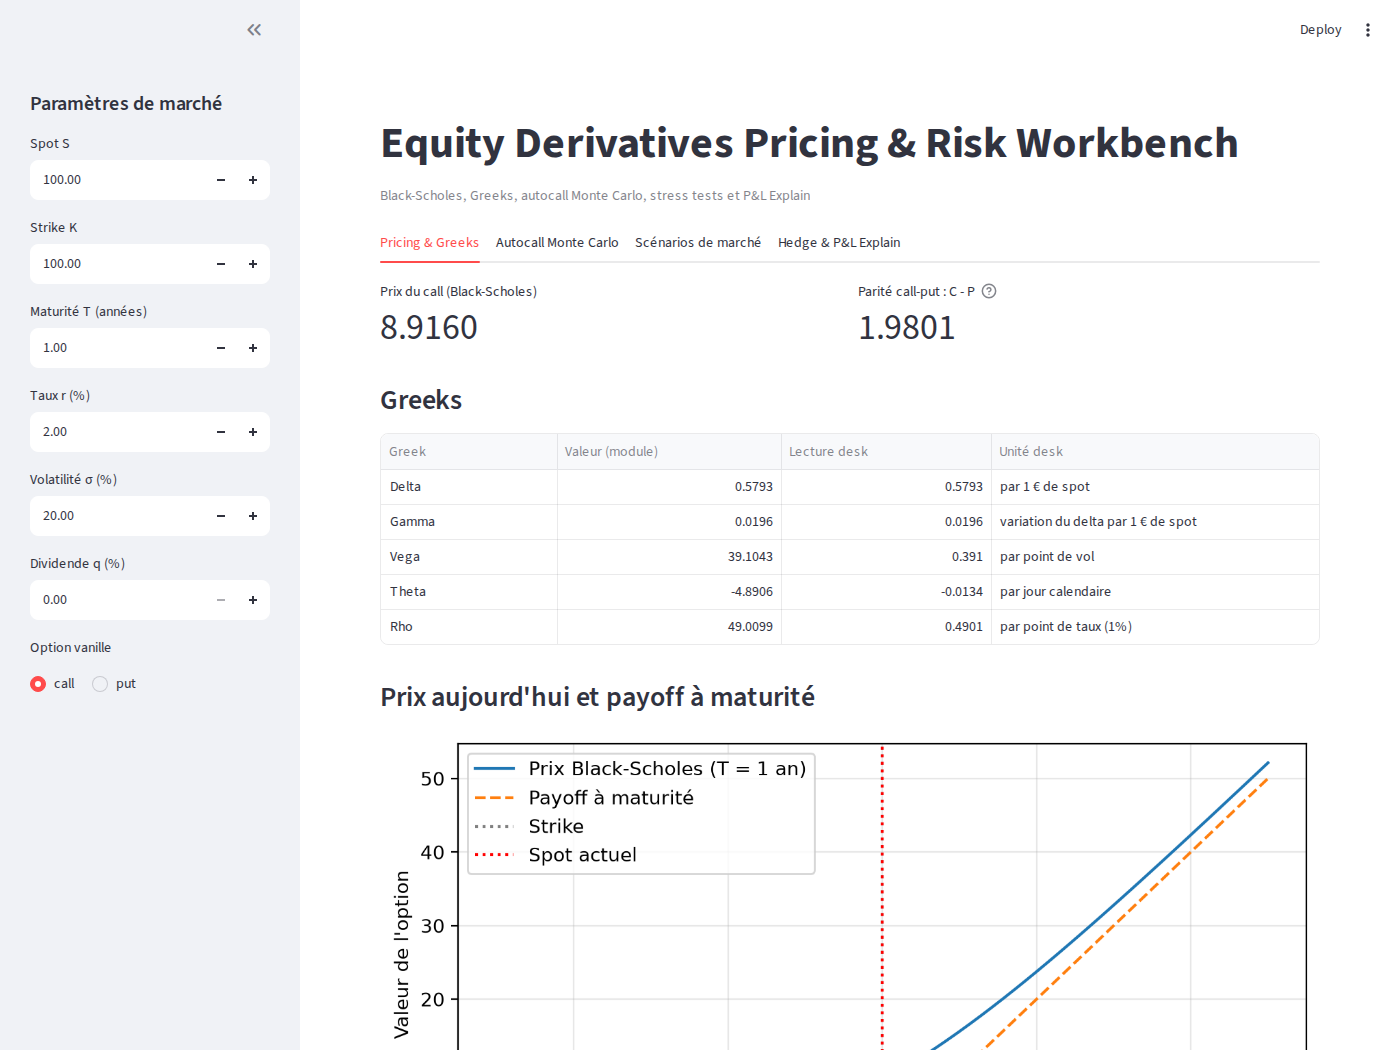
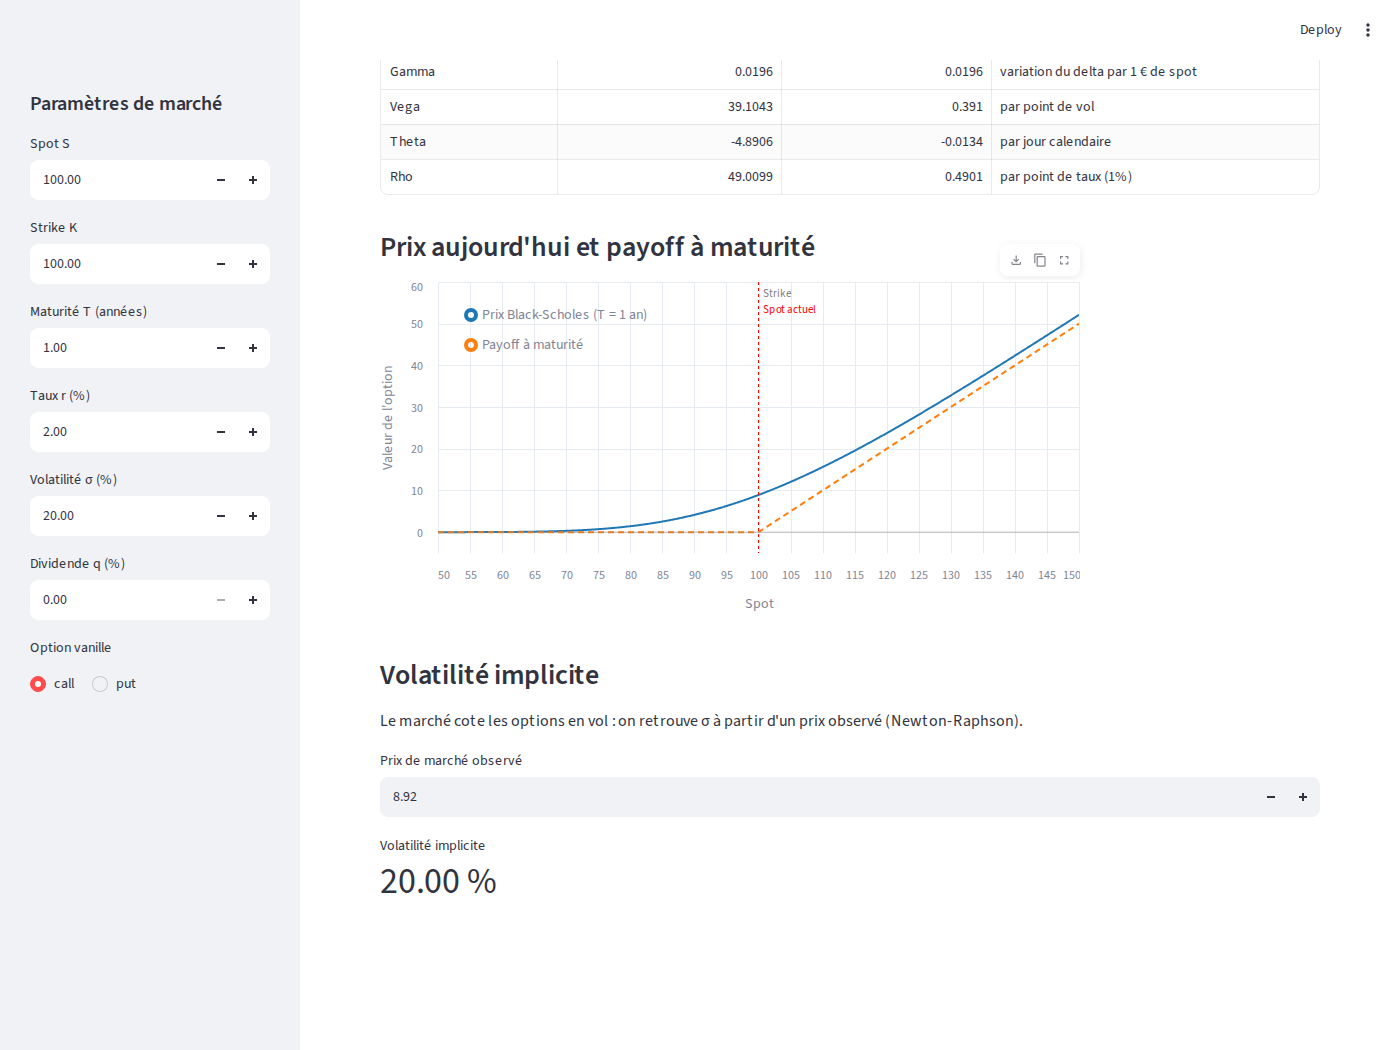
graphique payoff en altair + marge sous zero
- le graphique prix / payoff est dessine par le navigateur (altair) au lieu
  d'une image matplotlib : plus de redimensionnement quand on change les valeurs
- taille fixe 700 x 350, marge sous 0 et ligne y = 0 pour voir les courbes a zero
- legende complete, etiquettes strike / spot qui ne se chevauchent plus
- altair dans requirements.txt, capture du README mise a jour
- test_app verifie que le graphique payoff est un graphique altair

diff --git a/app.py b/app.py
@@ -5,6 +5,7 @@
 import io
 import numpy as np
 import matplotlib.pyplot as plt
+import altair as alt
 import streamlit as st
 
 from pricing.black_scholes import prix_call, prix_put
@@ -108,24 +109,51 @@ with onglet_pricing:
     else:
         payoff = np.maximum(K - spots, 0)
 
-    fig, ax = plt.subplots(figsize=(7, 3.5))
-    ax.plot(spots, prix_spots, label=f"Prix Black-Scholes (T = {T:g} an)")
-    ax.plot(spots, payoff, "--", label="Payoff à maturité")
-    ax.axvline(K, color="grey", linestyle=":", label="Strike")
+    # Ce graphique est dessiné par le navigateur (Altair, installé avec Streamlit) et pas
+    # par matplotlib : ce n'est plus une image, donc rien à redimensionner quand on change
+    # les valeurs, et on peut lire les points au survol de la souris.
+    nom_prix = f"Prix Black-Scholes (T = {T:g} an)"
+    points = []
+    for s, p, v in zip(spots, prix_spots, payoff):
+        points.append({"Spot": float(s), "Valeur": float(p), "Courbe": nom_prix})
+        points.append({"Spot": float(s), "Valeur": float(v), "Courbe": "Payoff à maturité"})
+
+    # Axes fixés par rapport au strike, avec une petite marge sous 0
+    # pour bien voir les courbes qui sont à y = 0
+    haut = max(0.6 * K, max(prix_spots) * 1.05)
+    echelle_x = alt.Scale(domain=[0.5 * K, 1.5 * K])
+    echelle_y = alt.Scale(domain=[-0.05 * haut, haut])
+
+    courbes = alt.Chart(alt.Data(values=points)).mark_line(clip=True).encode(
+        x=alt.X("Spot:Q", scale=echelle_x),
+        y=alt.Y("Valeur:Q", scale=echelle_y, title="Valeur de l'option"),
+        color=alt.Color("Courbe:N", title=None,
+                        scale=alt.Scale(domain=[nom_prix, "Payoff à maturité"], range=["#1f77b4", "#ff7f0e"]),
+                        legend=alt.Legend(orient="top-left" if type_option == "call" else "top-right", labelLimit=0)),
+        strokeDash=alt.StrokeDash("Courbe:N", legend=None,
+                                  scale=alt.Scale(domain=[nom_prix, "Payoff à maturité"], range=[[1, 0], [6, 4]])),
+        tooltip=["Courbe:N", alt.Tooltip("Spot:Q", format=".2f"), alt.Tooltip("Valeur:Q", format=".4f")],
+    )
+
+    # Repères verticaux : strike (gris) et spot actuel (rouge) s'il est dans la zone affichée
+    reperes = [{"Spot": K, "Repère": "Strike", "couleur": "grey", "hauteur_texte": 12}]
     if 0.5 * K <= S <= 1.5 * K:
-        ax.axvline(S, color="red", linestyle=":", label="Spot actuel")
+        reperes.append({"Spot": S, "Repère": "Spot actuel", "couleur": "red", "hauteur_texte": 28})
+    base_reperes = alt.Chart(alt.Data(values=reperes)).encode(
+        x=alt.X("Spot:Q", scale=echelle_x),
+        color=alt.Color("couleur:N", scale=None),
+    )
+    lignes_verticales = base_reperes.mark_rule(strokeDash=[3, 3])
+    # hauteur_texte en pixels (scale=None) : les deux étiquettes ne se chevauchent pas si S = K
+    textes = base_reperes.mark_text(align="left", dx=4).encode(
+        text="Repère:N", y=alt.Y("hauteur_texte:Q", scale=None)
+    )
 
-    # Axes fixés par rapport au strike : sinon matplotlib recalcule l'échelle
-    # à chaque changement de paramètre et le graphique "saute"
-    ax.set_xlim(0.5 * K, 1.5 * K)
-    ax.set_ylim(0, max(0.6 * K, max(prix_spots) * 1.05))
+    zero = alt.Chart(alt.Data(values=[{"y": 0}])).mark_rule(color="grey", opacity=0.5).encode(y="y:Q")
 
-    ax.set_xlabel("Spot")
-    ax.set_ylabel("Valeur de l'option")
-    # Légende du côté où la courbe est basse (à gauche pour un call, à droite pour un put)
-    ax.legend(loc="upper left" if type_option == "call" else "upper right", fontsize="small")
-    ax.grid(alpha=0.3)
-    afficher_graphique(fig)
+    graphique = (courbes + lignes_verticales + textes + zero).properties(height=350)
+    # Largeur fixe : même taille sur un petit ou un grand écran
+    st.altair_chart(graphique, width=700)
 
     if not 0.5 * K <= S <= 1.5 * K:
         st.caption("Le spot actuel est hors de la zone affichée (50% à 150% du strike).")

diff --git a/tests/test_app.py b/tests/test_app.py
@@ -17,6 +17,8 @@ def test_app_se_lance_sans_erreur():
     # Aucun avertissement affiché (ex. option dépréciée de st.pyplot)
     assert not app.warning
     assert len(app.tabs) == 4
+    # Le graphique du payoff est un graphique Altair (dessiné par le navigateur), pas une image
+    assert len(app.get("vega_lite_chart")) == 1
 
 
 def test_app_put_et_gros_choc():
